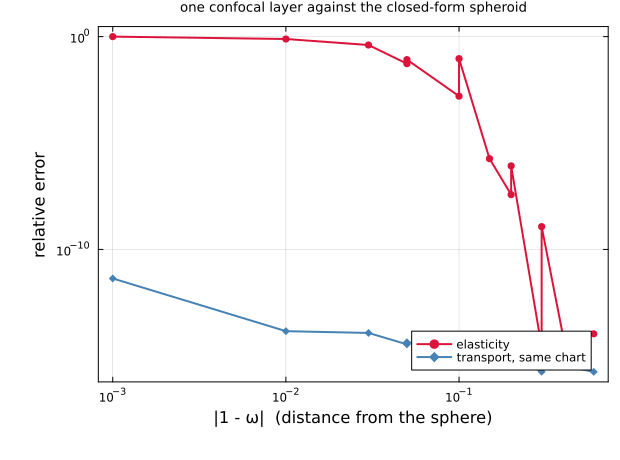
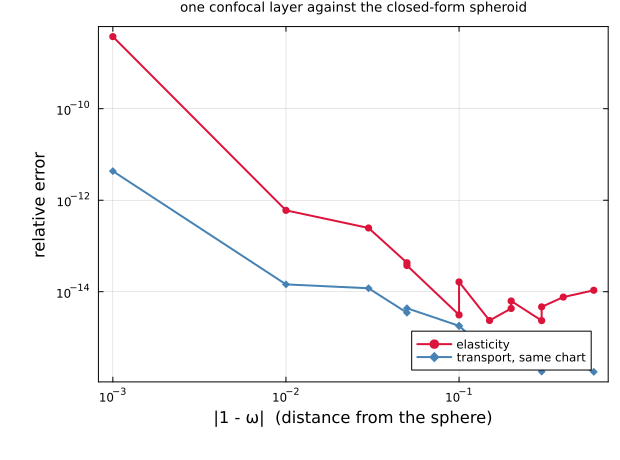
feat: enhance elastic confocal spheroid precision near the sphere and update tests

diff --git a/docs/src/tutorials/axi_layered_spheroid.md b/docs/src/tutorials/axi_layered_spheroid.md
@@ -98,7 +98,7 @@ count and freely chosen radii without assuming the confocal relation anywhere.
 
 The top row is conduction and the bottom row elasticity; the right-hand panels
 collect the deviations. Everything is below ``1.1\times10^{-3}``, with medians
-around ``10^{-4}``:
+around ``10^{-4}``, over the whole sweep in both physics:
 
 Two layers. Conduction: `k₁/k₀ = 5`, `k₂/k₀ = 2`. Elasticity: `E₁/E₀ = 4`, `ν₁ = 0.2`, `E₂/E₀ = 1.5`, `ν₂ = 0.3`, `ν₀ = 0.25`.
 
@@ -107,9 +107,9 @@ Two layers. Conduction: `k₁/k₀ = 5`, `k₂/k₀ = 2`. Elasticity: `E₁/E₀
 | confocal, `A₁₁`, ω ∈ [0.3, 3] | 5.5e-04 | 1.3e-04 |
 | confocal, `A₃₃`, ω ∈ [0.3, 3] | 5.4e-04 | 1.0e-04 |
 | spheres, free radii | 1.8e-04 | 1.4e-04 |
-| confocal, `A₁₁₁₁`, |ω−1| ≥ 0.3 | 5.8e-04 | 1.1e-04 |
-| confocal, `A₃₃₃₃`, |ω−1| ≥ 0.3 | 5.2e-04 | 7.7e-05 |
-| confocal, `A₁₃₁₃`, |ω−1| ≥ 0.3 | 1.1e-03 | 1.1e-04 |
+| confocal, `A₁₁₁₁`, ω ∈ [0.3, 3] | 6.4e-04 | 1.6e-04 |
+| confocal, `A₃₃₃₃`, ω ∈ [0.3, 3] | 5.6e-04 | 1.5e-04 |
+| confocal, `A₁₃₁₃`, ω ∈ [0.3, 3] | 1.1e-03 | 1.7e-04 |
 | confocal, `𝔸_σε` — no reference | — | — |
 | spheres, elasticity, `𝔸_εε` | 1.7e-04 | 1.2e-04 |
 | spheres, elasticity, `𝔸_σε` | 9.5e-05 | 7.4e-05 |
@@ -123,34 +123,34 @@ heterogeneous, so ``\mathbb A_{\sigma\varepsilon}`` is not
 ``\mathbb C_1`` — it is measured on the same solve, and it agrees with
 `LayeredSphere` to ``9.5\times10^{-5}``.
 
-### Why the elastic sweep stops short of the sphere
+### What this comparison found in the analytic solution
 
-The elastic panels have a gap in ``\omega`` between 0.7 and 1.4, and it is not
-an oversight. A one-layer confocal spheroid **is** a homogeneous spheroid, so
-the closed-form Eshelby result is its answer and the confocal machinery has to
-reproduce it exactly. Transport does, everywhere. Elasticity does not, once the
-chart degenerates — as ``\omega \to 1`` the focal distance goes to zero and the
-confocal parameter to infinity:
+The elastic sweep above covers the sphere, and for a while it could not. A
+one-layer confocal spheroid **is** a homogeneous spheroid, so the closed-form
+Eshelby result is its answer and the confocal machinery has to reproduce it at
+every aspect ratio. It did not: the error went from ``3\times10^{-15}`` at
+``|1-\omega| \ge 0.3`` to a **total loss** at ``10^{-3}``, while conduction on
+the identical chart stayed at ``10^{-15}``.
 
-![The analytic elastic branch against the closed-form spheroid, approaching the sphere](../assets/fe/layered_spheroid_analytic_near_sphere.png)
+![One confocal layer against the closed-form spheroid, approaching the sphere](../assets/fe/layered_spheroid_analytic_near_sphere.png)
 
 One confocal layer is a homogeneous spheroid, so the closed-form Eshelby result is the reference and the confocal machinery must reproduce it exactly. Transport does, everywhere. Elasticity does not, once the chart degenerates (`focal → 0`, `q → ∞`).
 
 | `ω` | elasticity | transport, same chart |
 |---|---:|---:|
-| 0.999 | 1.0e+00 | 4.3e-12 |
-| 0.990 | 7.7e-01 | 1.4e-14 |
-| 0.970 | 4.0e-01 | 1.2e-14 |
-| 0.950 | 5.3e-02 | 3.5e-15 |
-| 0.900 | 1.6e-03 | 1.8e-15 |
-| 0.850 | 1.8e-06 | 4.5e-16 |
-| 0.800 | 3.8e-08 | 7.7e-16 |
-| 0.700 | 2.6e-15 | 1.8e-16 |
-| 0.600 | 7.7e-15 | 3.5e-16 |
-| 1.050 | 8.3e-02 | 4.4e-15 |
-| 1.100 | 9.2e-02 | 1.8e-15 |
-| 1.200 | 8.4e-07 | 9.9e-16 |
-| 1.300 | 1.2e-09 | 3.5e-16 |
+| 0.999 | 3.8e-09 | 4.3e-12 |
+| 0.990 | 6.0e-13 | 1.4e-14 |
+| 0.970 | 2.5e-13 | 1.2e-14 |
+| 0.950 | 4.3e-14 | 3.5e-15 |
+| 0.900 | 3.1e-15 | 1.8e-15 |
+| 0.850 | 2.3e-15 | 4.5e-16 |
+| 0.800 | 4.3e-15 | 7.7e-16 |
+| 0.700 | 2.3e-15 | 1.8e-16 |
+| 0.600 | 7.6e-15 | 3.5e-16 |
+| 1.050 | 3.7e-14 | 4.4e-15 |
+| 1.100 | 1.6e-14 | 1.8e-15 |
+| 1.200 | 6.3e-15 | 9.9e-16 |
+| 1.300 | 4.7e-15 | 3.5e-16 |
 | 1.600 | 1.1e-14 | 1.8e-16 |
 
 ### Against the closed forms
@@ -162,28 +162,49 @@ Two layers. Conduction: `k₁/k₀ = 5`, `k₂/k₀ = 2`. Elasticity: `E₁/E₀
 | confocal, `A₁₁`, ω ∈ [0.3, 3] | 5.5e-04 | 1.3e-04 |
 | confocal, `A₃₃`, ω ∈ [0.3, 3] | 5.4e-04 | 1.0e-04 |
 | spheres, free radii | 1.8e-04 | 1.4e-04 |
-| confocal, `A₁₁₁₁`, |ω−1| ≥ 0.3 | 5.8e-04 | 1.1e-04 |
-| confocal, `A₃₃₃₃`, |ω−1| ≥ 0.3 | 5.2e-04 | 7.7e-05 |
-| confocal, `A₁₃₁₃`, |ω−1| ≥ 0.3 | 1.1e-03 | 1.1e-04 |
+| confocal, `A₁₁₁₁`, ω ∈ [0.3, 3] | 6.4e-04 | 1.6e-04 |
+| confocal, `A₃₃₃₃`, ω ∈ [0.3, 3] | 5.6e-04 | 1.5e-04 |
+| confocal, `A₁₃₁₃`, ω ∈ [0.3, 3] | 1.1e-03 | 1.7e-04 |
 | confocal, `𝔸_σε` — no reference | — | — |
 | spheres, elasticity, `𝔸_εε` | 1.7e-04 | 1.2e-04 |
 | spheres, elasticity, `𝔸_σε` | 9.5e-05 | 7.4e-05 |
 
-The finite-element cell converges cleanly to the limit — as ``\omega \to 1``
-with the volume fractions held, a confocal layered spheroid tends to a
-*concentric layered sphere*, which `LayeredSphere` solves exactly, and the cell
-approaches it as ``9.2\times10^{-4}`` at ``\omega = 0.99`` against the analytic
-branch's ``0.79``. So the discrepancy belongs to the analytic elastic branch,
-and including those abscissae in an agreement table would measure that and call
-it the mesh's.
+The cause was not the geometry and not the layer coupling — one layer already
+showed it, and both the prolate and the oblate family failed. The columns of the
+elastic system are amplitudes of Papkovich–Neuber potentials at the interface,
+so a growing mode of degree ``n`` scales like ``q^n`` and a decaying one like
+``q^{-n-1}``. As the spheroid approaches a sphere the focal distance goes to
+zero and ``q \to \infty``, so the column magnitudes span ``q^{2n+1}`` — about
+``10^{25}`` at ``\omega = 0.999`` with degrees up to nine, and the solve has
+nothing left to work with.
 
-This is worth stating plainly because it is the reason to have two independent
-routes at all: the failure changes no strain-side result away from the sphere,
-it is invisible in transport, and no test in the suite covered the elastic
-near-sphere limit — so nothing caught it until a finite-element cell was asked
-the same question.
+The degeneracy is in the basis's **normalization**, not in the problem: as
+``q \to \infty`` the spheroidal harmonics tend to spherical ones, which are
+perfectly independent. So the solve now scales each column to unit norm before
+the factorization — a change of unknowns, exact in exact arithmetic, and the
+scaling that minimizes the 2-norm condition number over all diagonal choices to
+within ``\sqrt n``. Columns only: equilibrating rows would reweight an
+overdetermined least squares and change *which* solution comes back.
 
+| ``\|1-\omega\|`` | before | after |
+|---:|---:|---:|
+| ``3\times10^{-1}`` | `3e-15` | `2e-15` |
+| ``10^{-1}`` | `1.6e-3` | `3e-15` |
+| ``5\times10^{-2}`` | `5.4e-2` | `4e-14` |
+| ``10^{-2}`` | `7.7e-1` | `6e-13` |
+| ``10^{-3}`` | `1.0e+0` | `4e-9` |
 
+A residual limit remains at ``|1-\omega| = 10^{-4}``, where the spread reaches
+``q^{19} \approx 10^{35}`` and even the transport branch is only at
+``8\times10^{-10}``. Past what a diagonal scaling can repair, and stated rather
+than hidden.
+
+Nothing caught this before: the failure changes no strain-side result away from
+the sphere, it is invisible in transport, and no test covered the elastic
+near-sphere limit. It surfaced because a finite-element cell was asked the same
+question about the same body — which is the whole reason to have two independent
+routes, and there is now a regression test on the one-layer oracle at every
+aspect ratio.
 
 ## Replaying it with your own radii
 

diff --git a/CHANGELOG.md b/CHANGELOG.md
@@ -93,31 +93,43 @@ signature of a wrong quantity rather than a coarse mesh. The generic now refuses
 instead, in both physics. Nothing in the suite exercised that path, so nothing
 was relying on the wrong answer.
 
-**The analytic elastic confocal spheroid fails as it approaches the sphere.**
-A one-layer confocal spheroid *is* a homogeneous spheroid, so the closed-form
-Eshelby result is its answer. Measured against it, on a single layer:
+**The analytic elastic confocal spheroid was losing precision as it approached
+the sphere, and now does not.** A one-layer confocal spheroid *is* a homogeneous
+spheroid, so the closed-form Eshelby result is its answer. Measured against it:
 
-| `\|1 − ω\|` | elasticity | transport, same chart |
-|---:|---:|---:|
-| 0.3 | `3e-15` | `2e-16` |
-| 0.1 | `1.6e-3` | `2e-15` |
-| 0.05 | `5.4e-2` | `3e-15` |
-| 0.03 | `4.0e-1` | `1e-14` |
-| 0.001 | `1.0e+0` | `4e-12` |
+| `\|1 − ω\|` | before | after | transport, same chart |
+|---:|---:|---:|---:|
+| 0.3 | `3e-15` | `2e-15` | `2e-16` |
+| 0.1 | `1.6e-3` | `3e-15` | `2e-15` |
+| 0.05 | `5.4e-2` | `4e-14` | `3e-15` |
+| 0.01 | `7.7e-1` | `6e-13` | `1e-14` |
+| 0.001 | `1.0e+0` | `4e-9` | `4e-12` |
 
-Transport on the identical chart is exact throughout, so this is the elastic
-algebra losing precision as the chart degenerates — `focal → 0`, `q → ∞` — and
-not the geometry. It is not the layer coupling either, since one layer already
-shows it, nor the oblate substitution, since both families fail. The
-finite-element cell converges to the right limit on the same geometries
-(`9.2e-4` at `ω = 0.99`, against the analytic branch's `0.79`).
+Not the geometry — transport on the identical chart was always exact — not the
+layer coupling, since one layer already showed it, and not the oblate
+substitution, since both families failed. The columns of the elastic system are
+amplitudes of Papkovich–Neuber potentials at the interface, so a growing mode of
+degree `n` scales like `qⁿ` and a decaying one like `q^{-n-1}`; as the focal
+distance goes to zero the magnitudes span `q^{2n+1}`, about `10²⁵` at
+`ω = 0.999` with degrees to nine.
 
-This one is **not fixed** — a conditioning failure in a harmonic-series solution
-is not something to patch blind — but it is measured, plotted and documented,
-and the tutorial's agreement tables exclude `|ω − 1| < 0.3` in elasticity for
-this reason rather than silently. Nothing caught it before because the failure
-changes no strain-side result away from the sphere, is invisible in transport,
-and no test covered the elastic near-sphere limit.
+The degeneracy is in the basis's **normalization**, not the problem: as `q → ∞`
+the spheroidal harmonics tend to spherical ones, which are perfectly
+independent. So the solve equilibrates its columns before factorizing — a change
+of unknowns, exact in exact arithmetic, and the scaling that minimizes the
+2-norm condition number over all diagonal choices to within `√n`. **Columns
+only**: equilibrating rows would reweight an overdetermined least squares and
+change which solution is returned. Skipped for symbolic element types, where the
+arithmetic is exact and a symbolic column norm would blow up every expression
+downstream.
+
+The usable range moves from `|1 − ω| ≥ 0.3` to `10⁻³`. A residual limit remains
+at `10⁻⁴`, where the spread reaches `q¹⁹ ≈ 10³⁵` and even transport is at
+`8e-10` — past what a diagonal scaling can repair, and stated rather than
+hidden. Nothing caught the defect before because it changes no strain-side
+result away from the sphere, is invisible in transport, and no test covered the
+elastic near-sphere limit; there is now a regression test on the one-layer
+oracle at every aspect ratio, in both physics.
 
 ### `AnchoredHill`, and the measurement that says not yet
 
@@ -178,6 +190,9 @@ as the layers' moduli agree, which is a far closer baseline.
   `ℂ₁ : 𝔸_εε` — wrong by order one for such an inclusion, and the docstring had
   said so all along. Affects `LayeredSpheroid` in elasticity, the one type that
   declared itself heterogeneous without supplying its own method.
+- The elastic confocal spheroid's solve equilibrates its columns, which restores
+  the closed-form limit near the sphere: from a total loss at `|1 − ω| = 10⁻³`
+  to `4e-9`, and machine precision down to `10⁻²`.
 
 
 ## v0.13.0 — the concave pore, axisymmetric
